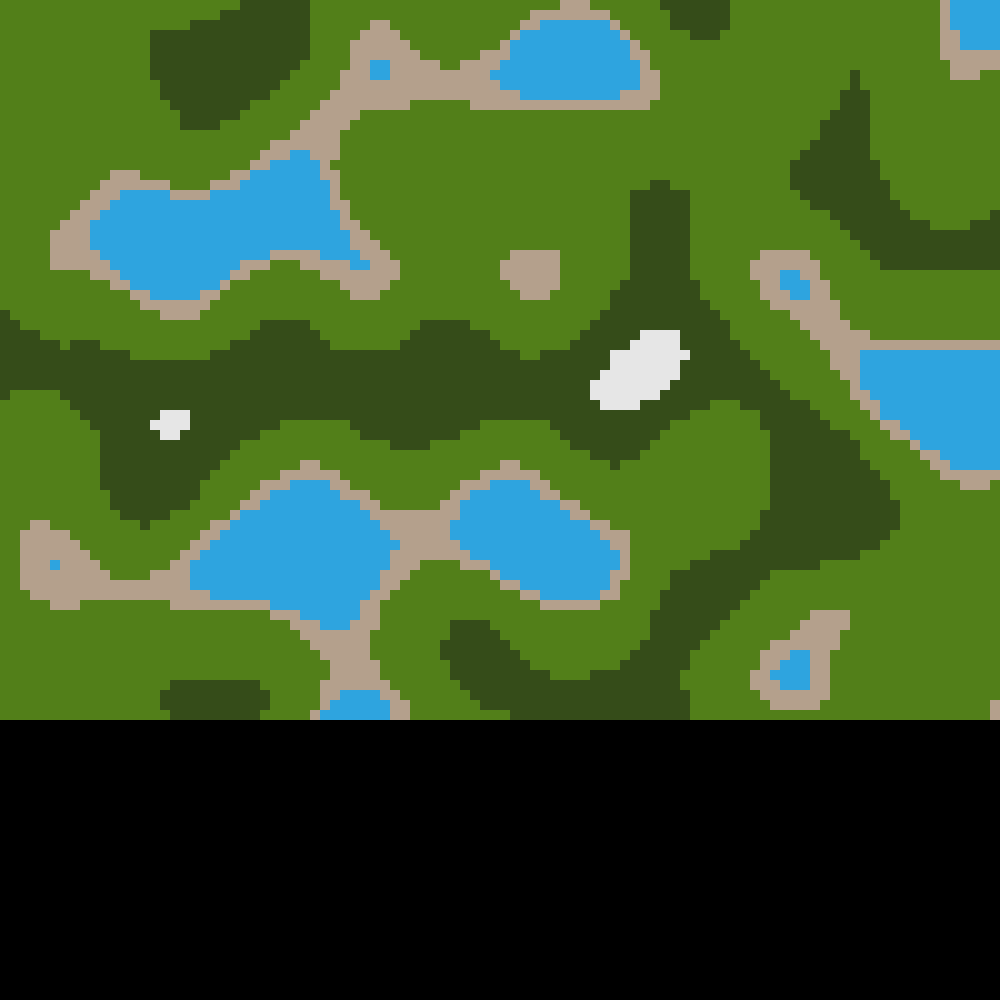
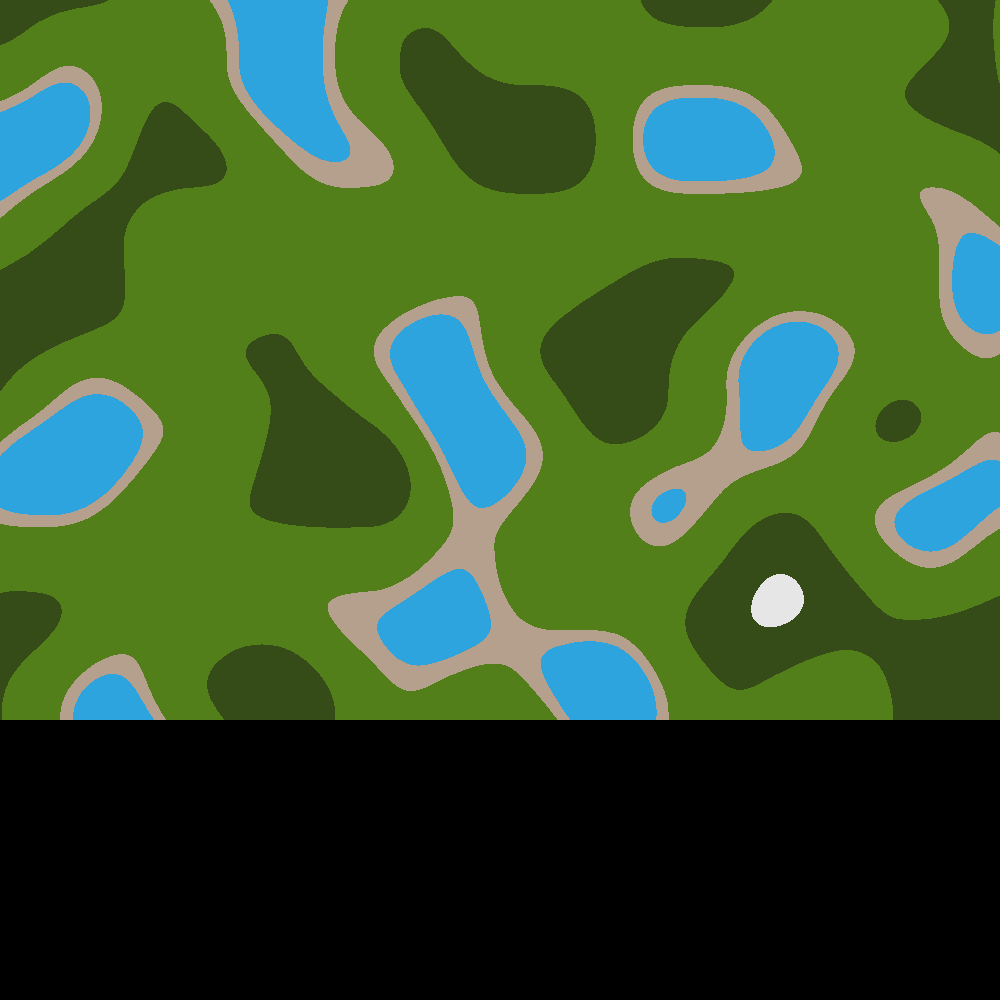
Added HD Land

diff --git a/main.py b/main.py
@@ -9,6 +9,10 @@ done = False
 
 
 # Important Variables
+offX = randint(-5000000, 5000000)
+offY = randint(-5000000, 5000000)
+#offX = 5
+#offY = 0
 winWidth = 1280
 winHeight = 720
 clock = pygame.time.Clock()
@@ -56,7 +60,7 @@ def createImage():
     global landImg
     img = Image.new('RGB', (1000, 1000), "black")
     pixels = img.load()
-
+    '''
     for i in range(100):
         for j in range(72):
             landIndex = doubleToSingle(i, j)
@@ -65,6 +69,13 @@ def createImage():
                     pixels[i*10+k, j*10+l] = land[landIndex].color
             #pixels[i*10,j*10] = land[landIndex].color
         # pixels[imgX,imgY] = land[landIndex].color
+    '''
+    mult = 0.006
+    for i in range(1000):
+        for j in range(720):
+            noise = pnoise2((i + (offX))*mult, (j + (offY))*mult)
+            val = (noise+1)*50
+            pixels[i,j] = COLORS[getNoiseType(val)]
     img.save("img/Land.png", "PNG")
     landImg = pygame.image.load("img/Land.png")
 
@@ -87,12 +98,23 @@ class Tile():
         self.hasTin = False
         self.hasIron = False
 
+def getNoiseType(noiseVal):
+    if noiseVal > 80:
+        TYPE = MOUNTAIN
+    elif noiseVal > 60:
+        TYPE = FOREST
+    elif noiseVal > 40:
+        TYPE = GRASS
+    elif noiseVal > 35:
+        TYPE = SAND
+    else:
+        TYPE = WATER
+    return TYPE
+
 def init():
     # Init the land
     mult = 0.06
     oremult = 0.5
-    offX = randint(-5000000, 5000000)
-    offY = randint(-5000000, 5000000)
     CopperX = randint(0, 5000)
     CopperY = randint(0, 5000)
     TinX = randint(0, 5000)
@@ -101,23 +123,13 @@ def init():
     IronY = randint(0, 5000)
     for i in range(MaxX*MaxY):
         X, Y = singleToDouble(i)
-        noise = pnoise2((X + offX)*mult, (Y + offY)*mult)
+        noise = pnoise2((X + (offX/10.0))*mult, (Y + (offY/10.0))*mult)
         Coppernoise = (pnoise2((X +CopperX)*oremult,(Y + CopperY)* oremult)+1) * 5
         Tinnoise = (pnoise2((X +TinX)*oremult,(Y + TinY)* oremult)+ 1) * 3
         Ironnoise = (pnoise2((X +IronX)*oremult,(Y + IronY)* oremult)+1) * 1.5
         val = (noise+1)*50
-        TYPE = 0
 
-        if val > 80:
-            TYPE = MOUNTAIN
-        elif val > 60:
-            TYPE = FOREST
-        elif val > 40:
-            TYPE = GRASS
-        elif val > 35:
-            TYPE = SAND
-        else:
-            TYPE = WATER
+        TYPE = getNoiseType(val)
 
         land.append(Tile(TYPE))
         oreGEN.append((Coppernoise, Tinnoise, Ironnoise))
